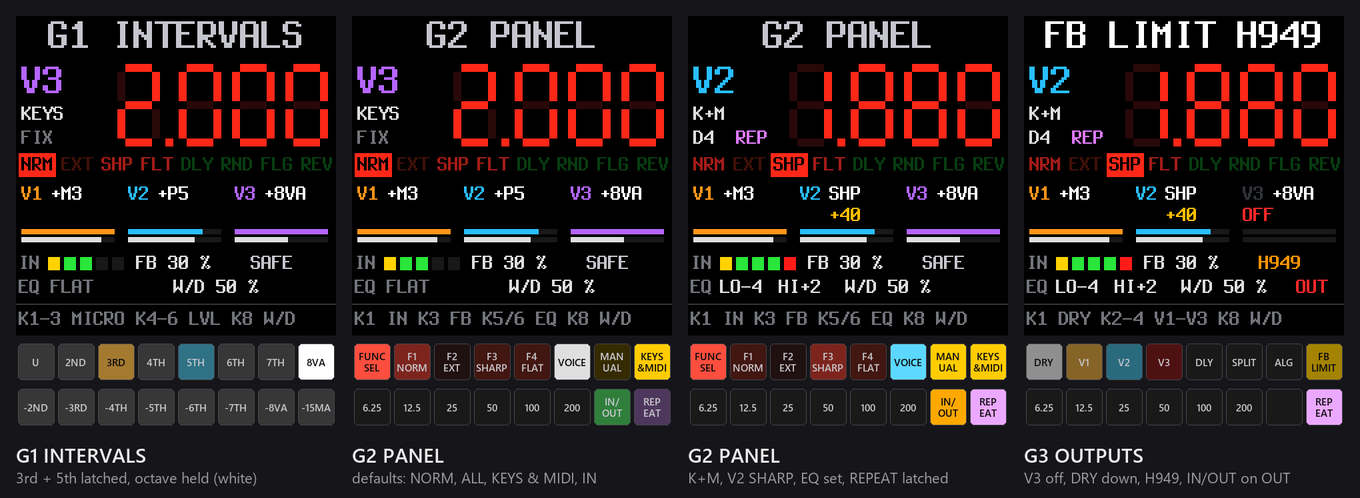
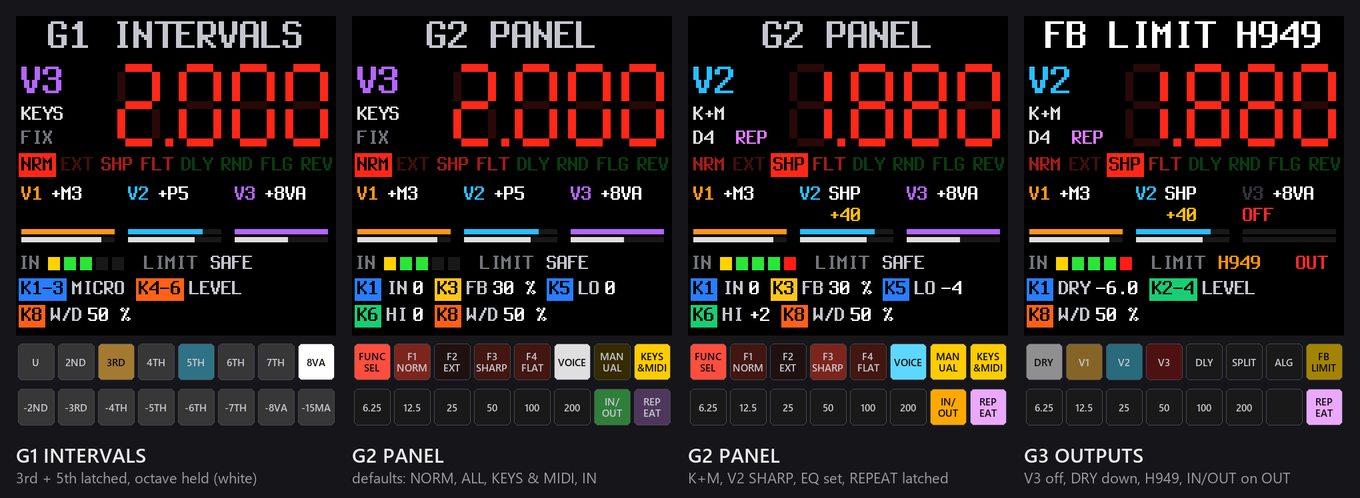
HARMONY page: the knobs with their values (coloured K tags, name and value together; the separate value lines and the knob legend gone: nothing shown twice); a status line for what is not a knob (the input lights, FB LIMIT, OUT)
The owner, 2026-11-13: the K tags coloured for legibility, W/D said K8 nowhere, LO / HI's numbers without K5 / K6
and repeated: "give the number and the knob together".

diff --git a/firmware/src/ui_hpage.c b/firmware/src/ui_hpage.c
@@ -502,8 +502,6 @@ static void hp_ivname(char *b, int32_t s)           /* an interval: "U", "+M3", 
 static void hp_paint(const hp_view_t *w)
 {
     static const char *const FL[8] = {"NRM", "EXT", "SHP", "FLT", "DLY", "RND", "FLG", "REV"};
-    static const char *const LEG[3] = {"K1-3 MICRO K4-6 LVL K8 W/D", "K1 IN K3 FB K5/6 EQ K8 W/D",
-                                         "K1 DRY K2-4 V1-V3 K8 W/D"};   /* (every knob that does something) */
     uint32_t v, i, r = w->ratio;
     uint16_t on = w->rv_on ? HP_SEG_ON : RGB(120, 24, 18), W = RGB(220, 220, 220);
     char b[16];
@@ -571,38 +569,74 @@ static void hp_paint(const hp_view_t *w)
         else if (mw)
             cv_rect(x + 4, 166, mw, 4, w->red[v] ? RGB(255, 30, 30) : w->mk[v] >= 7u ? RGB(255, 140, 0) : W);
     }
-    /* the input lights (-40, -18, -12, -6, -1 dBFS), FB, FB LIMIT */
+    /* the status line (not knobs): the input lights (-40, -18, -12, -6, -1 dBFS), FB LIMIT, IN / OUT */
     cv_text(2, 178, &FONT_S, "IN", TE_G3);
     for (i = 0; i < 5u; i++) {
         uint16_t c = i == 0u ? RGB(255, 210, 0) : i == 4u ? RGB(255, 30, 30) : RGB(40, 230, 60);
         cv_rect(24 + (int32_t)i * 12, 181, 9, 10, (i < w->lamps || (i == 4u && w->clip)) ? c : TE_G1);
     }
-    str_cpy(b, "FB ", 4);
-    hp_pct(b + 3, w->fb);
-    cv_text(90, 178, &FONT_S, b, W);
-    cv_text(176, 178, &FONT_S, w->fbl ? "H949" : "SAFE", w->fbl ? (w->h949_red ? RGB(255, 40, 40) : RGB(255, 150, 0)) : TE_G4);
-    /* the EQ, WET / DRY, IN / OUT */
-    if (w->low == HM_LOW_0 && w->high == HM_HIGH_0) {
-        cv_text(2, 196, &FONT_S, "EQ FLAT", TE_G3);
-    } else {                                            /* (the feedback's EQ: G2 K5 / K6) */
-        cv_text(2, 196, &FONT_S, "EQ", TE_G3);
-        str_cpy(b, "LO", 3);
-        hp_sdb(b + 2, (int32_t)w->low - (int32_t)HM_LOW_0);
-        b[str_len(b) - 3u] = 0;                         /* (no " DB": the line is narrow) */
-        cv_text(24, 196, &FONT_S, b, W);
-        str_cpy(b, "HI", 3);
-        hp_sdb(b + 2, (int32_t)w->high - (int32_t)HM_HIGH_0);
-        b[str_len(b) - 3u] = 0;
-        cv_text(68, 196, &FONT_S, b, W);
-    }
-    str_cpy(b, "W/D ", 5);
-    hp_pct(b + 4, w->wd);
-    cv_text(118, 196, &FONT_S, b, W);
+    cv_text(96, 178, &FONT_S, "LIMIT", TE_G3);
+    cv_text(146, 178, &FONT_S, w->fbl ? "H949" : "SAFE", w->fbl ? (w->h949_red ? RGB(255, 40, 40) : RGB(255, 150, 0)) : TE_G4);
     if (w->byp)
-        cv_text(204, 196, &FONT_S, "OUT", RGB(255, 40, 40));
-    /* the group's knobs */
-    cv_rect(0, 216, 240, 1, TE_G2);
-    cv_text(2, 220, &FONT_S, LEG[w->grp % 3u], TE_G3);
+        cv_text(204, 178, &FONT_S, "OUT", RGB(255, 40, 40));
+    /* the group's knobs, each with its value beside it (the owner, 2026-11-13: the knob and its number together, the K
+     * tags coloured, nothing twice): left to right, two rows. MICRO and LEVEL's values are the voices' strips above */
+    {
+        char k8[12], v1[12], v2[12], v3[12], v4[12];
+        int32_t x = 2, y = 197;
+        uint32_t n, m;
+        const char *K[5], *N[5], *V[5];
+        uint8_t KN[5];
+        hp_pct(k8, w->wd);
+        if (w->grp == 0u) {
+            K[0] = "K1-3", N[0] = "MICRO", V[0] = "", KN[0] = 1;
+            K[1] = "K4-6", N[1] = "LEVEL", V[1] = "", KN[1] = 4;
+            n = 2;
+        } else if (w->grp == 1u) {
+            if (w->inl) {
+                int32_t dd = (int32_t)w->inl - (int32_t)HM_INL_0;
+                v1[0] = dd < 0 ? '-' : '+';
+                fmt_int(v1 + (dd != 0), dd < 0 ? -dd : dd);   /* (0: "0", no sign) */
+            } else {
+                str_cpy(v1, "OFF", 4);
+            }
+            hp_pct(v2, w->fb);
+            hp_sdb(v3, (int32_t)w->low - (int32_t)HM_LOW_0);
+            v3[str_len(v3) - 3u] = 0;                   /* (no " DB": the row is narrow; the header has it) */
+            if (w->low == HM_LOW_0)
+                str_cpy(v3, "0", 2);
+            hp_sdb(v4, (int32_t)w->high - (int32_t)HM_HIGH_0);
+            v4[str_len(v4) - 3u] = 0;
+            if (w->high == HM_HIGH_0)
+                str_cpy(v4, "0", 2);
+            K[0] = "K1", N[0] = "IN", V[0] = v1, KN[0] = 1;
+            K[1] = "K3", N[1] = "FB", V[1] = v2, KN[1] = 3;
+            K[2] = "K5", N[2] = "LO", V[2] = v3, KN[2] = 5;
+            K[3] = "K6", N[3] = "HI", V[3] = v4, KN[3] = 6;
+            n = 4;
+        } else {
+            hp_db(v1, w->dmute ? 0u : w->dry);
+            if (str_len(v1) > 3u && v1[str_len(v1) - 1u] == 'B')
+                v1[str_len(v1) - 3u] = 0;               /* ("-6.0 DB" -> "-6.0") */
+            K[0] = "K1", N[0] = "DRY", V[0] = v1, KN[0] = 1;
+            K[1] = "K2-4", N[1] = "LEVEL", V[1] = "", KN[1] = 2;
+            n = 2;
+        }
+        K[n] = "K8", N[n] = "W/D", V[n] = k8, KN[n] = 8;
+        n++;
+        for (m = 0; m < n; m++) {
+            int32_t kw = text_w(&FONT_S, K[m]) + 4, iw = kw + 4 + text_w(&FONT_S, N[m]) + (V[m][0] ? 4 + text_w(&FONT_S, V[m]) : 0);
+            if (x > 2 && x + iw > 238)
+                x = 2, y += 20;                         /* (the next row) */
+            cv_rect(x, y, kw, 17, TE_COL[(KN[m] - 1u) & 3u]);   /* the K tag in the knob's colour (K1 / K5 blue, K2 / K6
+                                                         * green, K3 / K7 yellow, K4 / K8 orange: the menu's) */
+            cv_text(x + 2, y, &FONT_S, K[m], C_BLACK);
+            cv_text(x + kw + 4, y, &FONT_S, N[m], TE_G4);
+            if (V[m][0])
+                cv_text(x + kw + 4 + text_w(&FONT_S, N[m]) + 4, y, &FONT_S, V[m], C_WHITE);
+            x += iw + 8;
+        }
+    }
 }
 /* the page, drawn as the vocoder page is (vis_draw: two bands of 120 rows), only when its view changed */
 static uint32_t hp_frame(hp_view_t *w)

diff --git a/HARMONISER.md b/HARMONISER.md
@@ -456,8 +456,12 @@ menu, another page.
   function lit.
 - **The voices:** each one's interval (`+M3`, `-P5`, `U`; **SHP** / **FLT**; **MAN**), its MICRO in amber when not 0,
   its LEVEL bar and its meter; **OFF** in red when muted.
-- **The bottom lines:** the input lights (five, as the H949's: -40, -18, -12, -6, -1 dBFS), FEEDBACK, FB LIMIT, the
-  feedback EQ, WET / DRY, and **OUT** in red while IN / OUT bypasses.
+- **The status line:** the input lights (five, as the H949's: -40, -18, -12, -6, -1 dBFS), FB LIMIT (SAFE / H949),
+  and **OUT** in red while IN / OUT bypasses.
+- **The knobs:** the group's knobs, each as a coloured tag (K1 / K5 blue, K2 / K6 green, K3 / K7 yellow, K4 / K8
+  orange, as the menu's) with its name and value beside it: G1 `K1-3 MICRO`, `K4-6 LEVEL`, `K8 W/D 50 %`; G2 `K1 IN 0`,
+  `K3 FB 30 %`, `K5 LO 0`, `K6 HI 0`, `K8 W/D`; G3 `K1 DRY`, `K2-4 LEVEL`, `K8 W/D`. MICRO and LEVEL's values are in
+  the voices' strips above. A knob turned shows its full value in the header.
 
 **G1 INTERVALS**
 - **Pads:** the HK940's intervals. Top row up: unison, 2nd, 3rd (major), 4th, 5th, 6th (major), 7th (minor), octave.
